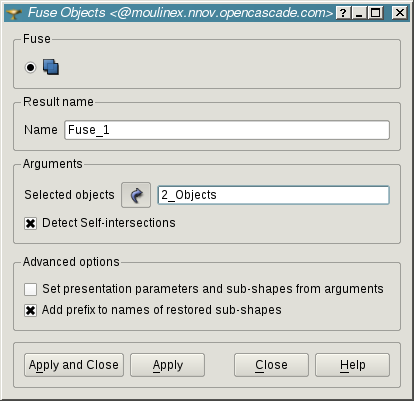
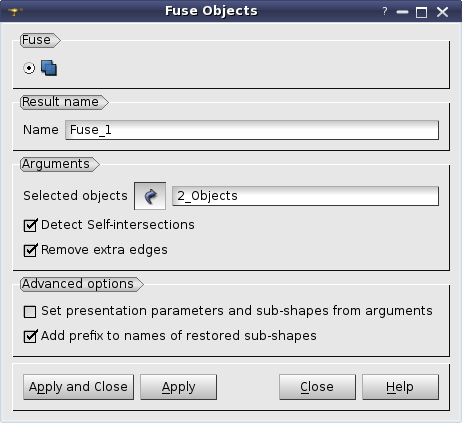
0022471: EDF 2604 GEOM: Suppress the boundary edges of the tools in the fuse operation

Changed region(s): [[0.0, 0.0, 1.0, 1.0]]

diff --git a/src/GEOMGUI/GEOM_msg_en.ts b/src/GEOMGUI/GEOM_msg_en.ts
@@ -4641,6 +4641,10 @@ Please, select face, shell or solid and try again</translation>
         <translation>Remove extra edges</translation>
     </message>
     <message>
+        <source>GEOM_BOOL_REMOVE_EXTRA_EDGES</source>
+        <translation>Remove extra edges</translation>
+    </message>
+    <message>
         <source>GEOM_REMOVE_EXTRA_EDGES</source>
         <translation>Object to remove extra edges</translation>
     </message>

diff --git a/src/GEOM_SWIG/geomBuilder.py b/src/GEOM_SWIG/geomBuilder.py
@@ -6846,6 +6846,8 @@ class geomBuilder(object, GEOM._objref_GEOM_Gen):
         #  @param theShape2 Second argument for boolean operation.
         #  @param checkSelfInte The flag that tells if the arguments should
         #         be checked for self-intersection prior to the operation.
+        #  @param rmExtraEdges The flag that tells if Remove Extra Edges
+        #         operation should be performed during the operation.
         #  @param theName Object name; when specified, this parameter is used
         #         for result publication in the study. Otherwise, if automatic
         #         publication is switched on, default value is used for result name.
@@ -6862,7 +6864,8 @@ class geomBuilder(object, GEOM._objref_GEOM_Gen):
         #
         #  @ref tui_fuse "Example 1"
         #  \n @ref swig_MakeCommon "Example 2"
-        def MakeFuse(self, theShape1, theShape2, checkSelfInte=False, theName=None):
+        def MakeFuse(self, theShape1, theShape2, checkSelfInte=False,
+                     rmExtraEdges=False, theName=None):
             """
             Perform Fuse boolean operation on two given shapes.
 
@@ -6872,6 +6875,8 @@ class geomBuilder(object, GEOM._objref_GEOM_Gen):
                 checkSelfInte The flag that tells if the arguments should
                               be checked for self-intersection prior to
                               the operation.
+                rmExtraEdges The flag that tells if Remove Extra Edges
+                             operation should be performed during the operation.
                 theName Object name; when specified, this parameter is used
                         for result publication in the study. Otherwise, if automatic
                         publication is switched on, default value is used for result name.
@@ -6890,8 +6895,11 @@ class geomBuilder(object, GEOM._objref_GEOM_Gen):
             
             """
             # Example: see GEOM_TestOthers.py
-            # note: auto-publishing is done in self.MakeBoolean()
-            return self.MakeBoolean(theShape1, theShape2, 3, checkSelfInte, theName)
+            anObj = self.BoolOp.MakeFuse(theShape1, theShape2,
+                                         checkSelfInte, rmExtraEdges)
+            RaiseIfFailed("MakeFuse", self.BoolOp)
+            self._autoPublish(anObj, theName, "fuse")
+            return anObj
 
         ## Perform Section boolean operation on two given shapes.
         #  @param theShape1 First argument for boolean operation.
@@ -6949,6 +6957,8 @@ class geomBuilder(object, GEOM._objref_GEOM_Gen):
         #  @param theShapesList Shapes to be fused.
         #  @param checkSelfInte The flag that tells if the arguments should
         #         be checked for self-intersection prior to the operation.
+        #  @param rmExtraEdges The flag that tells if Remove Extra Edges
+        #         operation should be performed during the operation.
         #  @param theName Object name; when specified, this parameter is used
         #         for result publication in the study. Otherwise, if automatic
         #         publication is switched on, default value is used for result name.
@@ -6965,7 +6975,8 @@ class geomBuilder(object, GEOM._objref_GEOM_Gen):
         #
         #  @ref tui_fuse "Example 1"
         #  \n @ref swig_MakeCommon "Example 2"
-        def MakeFuseList(self, theShapesList, checkSelfInte=False, theName=None):
+        def MakeFuseList(self, theShapesList, checkSelfInte=False,
+                         rmExtraEdges=False, theName=None):
             """
             Perform Fuse boolean operation on the list of shapes.
 
@@ -6974,6 +6985,8 @@ class geomBuilder(object, GEOM._objref_GEOM_Gen):
                 checkSelfInte The flag that tells if the arguments should
                               be checked for self-intersection prior to
                               the operation.
+                rmExtraEdges The flag that tells if Remove Extra Edges
+                             operation should be performed during the operation.
                 theName Object name; when specified, this parameter is used
                         for result publication in the study. Otherwise, if automatic
                         publication is switched on, default value is used for result name.
@@ -6992,7 +7005,8 @@ class geomBuilder(object, GEOM._objref_GEOM_Gen):
             
             """
             # Example: see GEOM_TestOthers.py
-            anObj = self.BoolOp.MakeFuseList(theShapesList, checkSelfInte)
+            anObj = self.BoolOp.MakeFuseList(theShapesList, checkSelfInte,
+                                             rmExtraEdges)
             RaiseIfFailed("MakeFuseList", self.BoolOp)
             self._autoPublish(anObj, theName, "fuse")
             return anObj
@@ -12662,8 +12676,8 @@ class geomBuilder(object, GEOM._objref_GEOM_Gen):
             Returns:
                 New GEOM_Object, containing the created shape.
             """
-            anObj = self.AdvOp.MakeSmoothingSurface
-                (thelPoints, theNbMax, theDegMax, theDMax)
+            anObj = self.AdvOp.MakeSmoothingSurface(thelPoints, theNbMax,
+                                                    theDegMax, theDMax)
             RaiseIfFailed("MakeSmoothingSurface", self.AdvOp)
             self._autoPublish(anObj, theName, "smoothing")
             return anObj

diff --git a/src/GEOM_I/GEOM_IBooleanOperations_i.cc b/src/GEOM_I/GEOM_IBooleanOperations_i.cc
@@ -89,12 +89,45 @@ GEOM::GEOM_Object_ptr GEOM_IBooleanOperations_i::MakeBoolean
 
 //=============================================================================
 /*!
+ *  MakeFuse
+ */
+//=============================================================================
+GEOM::GEOM_Object_ptr GEOM_IBooleanOperations_i::MakeFuse
+                                    (GEOM::GEOM_Object_ptr theShape1,
+                                     GEOM::GEOM_Object_ptr theShape2,
+                                     CORBA::Boolean        IsCheckSelfInte,
+                                     CORBA::Boolean        IsRmExtraEdges)
+{
+  GEOM::GEOM_Object_var aGEOMObject;
+
+  //Set a not done flag
+  GetOperations()->SetNotDone();
+
+  //Get the reference shapes
+  Handle(GEOM_Object) aSh1 = GetObjectImpl(theShape1);
+  Handle(GEOM_Object) aSh2 = GetObjectImpl(theShape2);
+
+  if (aSh1.IsNull() || aSh2.IsNull()) return aGEOMObject._retn();
+
+  // Make Boolean
+  Handle(GEOM_Object) anObject = GetOperations()->MakeFuse
+    (aSh1, aSh2, IsCheckSelfInte, IsRmExtraEdges);
+
+  if (!GetOperations()->IsDone() || anObject.IsNull())
+    return aGEOMObject._retn();
+
+  return GetObject(anObject);
+}
+
+//=============================================================================
+/*!
  *  MakeFuseList
  */
 //=============================================================================
 GEOM::GEOM_Object_ptr GEOM_IBooleanOperations_i::MakeFuseList
                                     (const GEOM::ListOfGO& theShapes,
-                                     CORBA::Boolean        IsCheckSelfInte)
+                                     CORBA::Boolean        IsCheckSelfInte,
+                                     CORBA::Boolean        IsRmExtraEdges)
 {
   GEOM::GEOM_Object_var aGEOMObject;
 
@@ -110,7 +143,7 @@ GEOM::GEOM_Object_ptr GEOM_IBooleanOperations_i::MakeFuseList
 
   // Make fusion
   Handle(GEOM_Object) anObject =
-    GetOperations()->MakeFuseList(aShapes, IsCheckSelfInte);
+    GetOperations()->MakeFuseList(aShapes, IsCheckSelfInte, IsRmExtraEdges);
 
   if (!GetOperations()->IsDone() || anObject.IsNull())
     return aGEOMObject._retn();

diff --git a/src/BooleanGUI/BooleanGUI_Dialog.h b/src/BooleanGUI/BooleanGUI_Dialog.h
@@ -30,7 +30,7 @@
 #include "GEOMBase_Skeleton.h"
 #include "GEOM_GenericObjPtr.h"
 
-class DlgRef_2Sel2Spin1Check;
+class DlgRef_2Sel2Spin3Check;
 
 //=================================================================================
 // class    : BooleanGUI_Dialog
@@ -65,7 +65,7 @@ private:
   GEOM::GeomObjPtr                   myObject1;
   GEOM::ListOfGO_var                 myObjects;
   
-  DlgRef_2Sel2Spin1Check*            myGroup;
+  DlgRef_2Sel2Spin3Check*            myGroup;
 
 private slots:
   void                               ClickOnOk();
